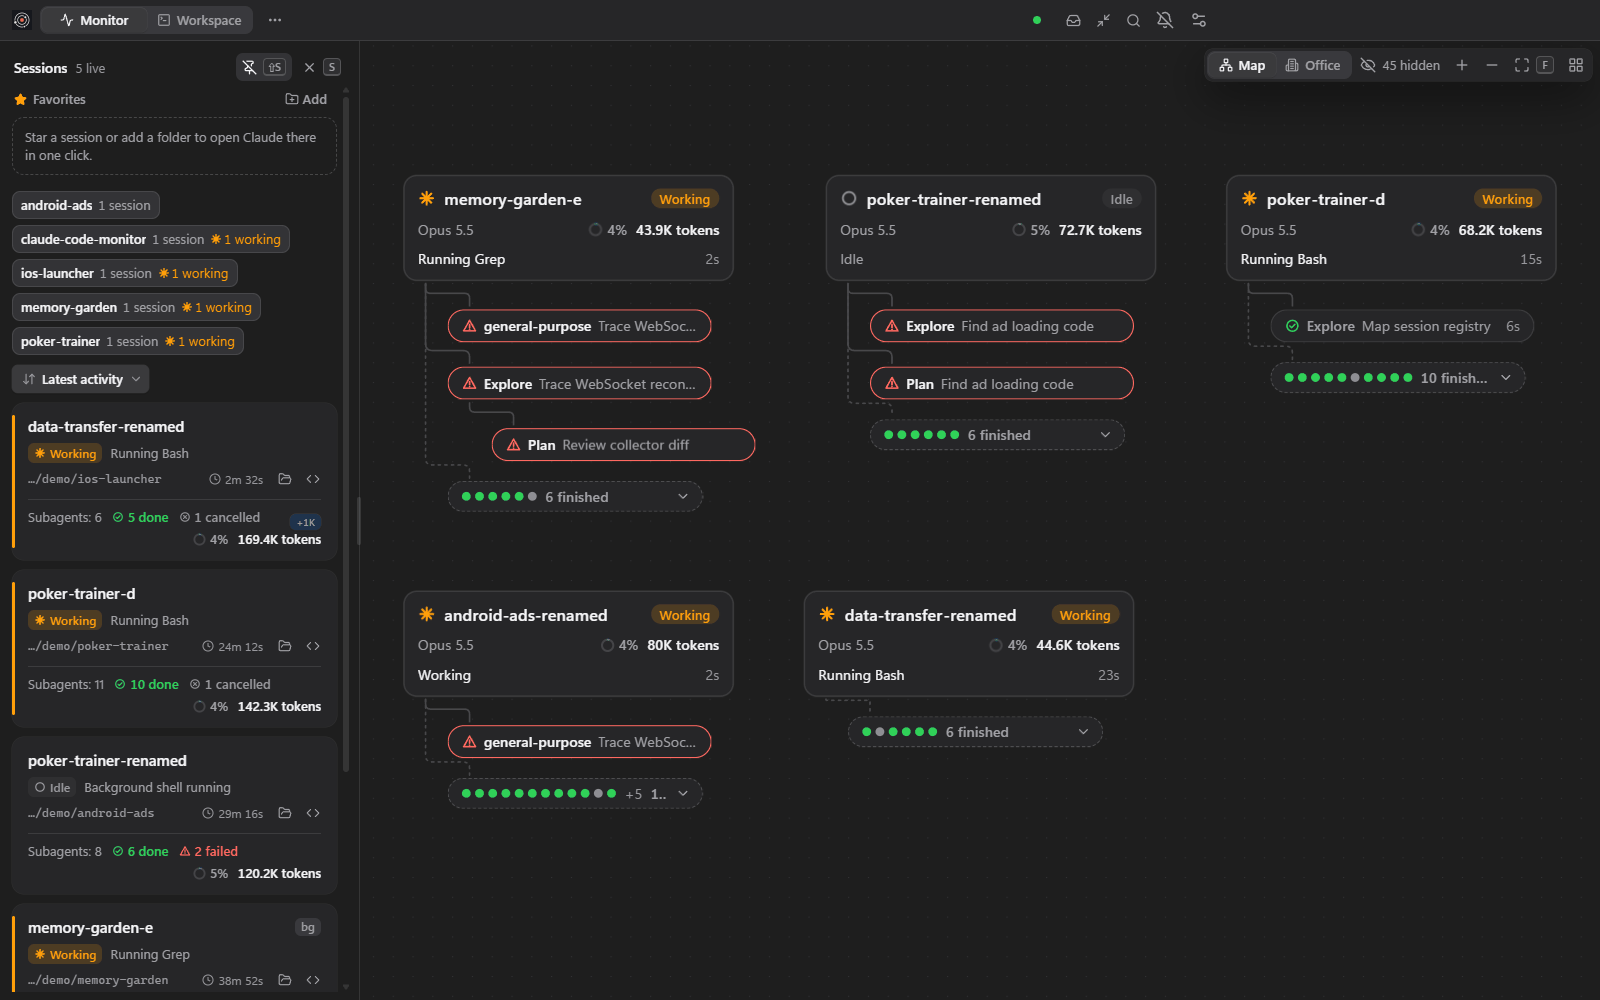
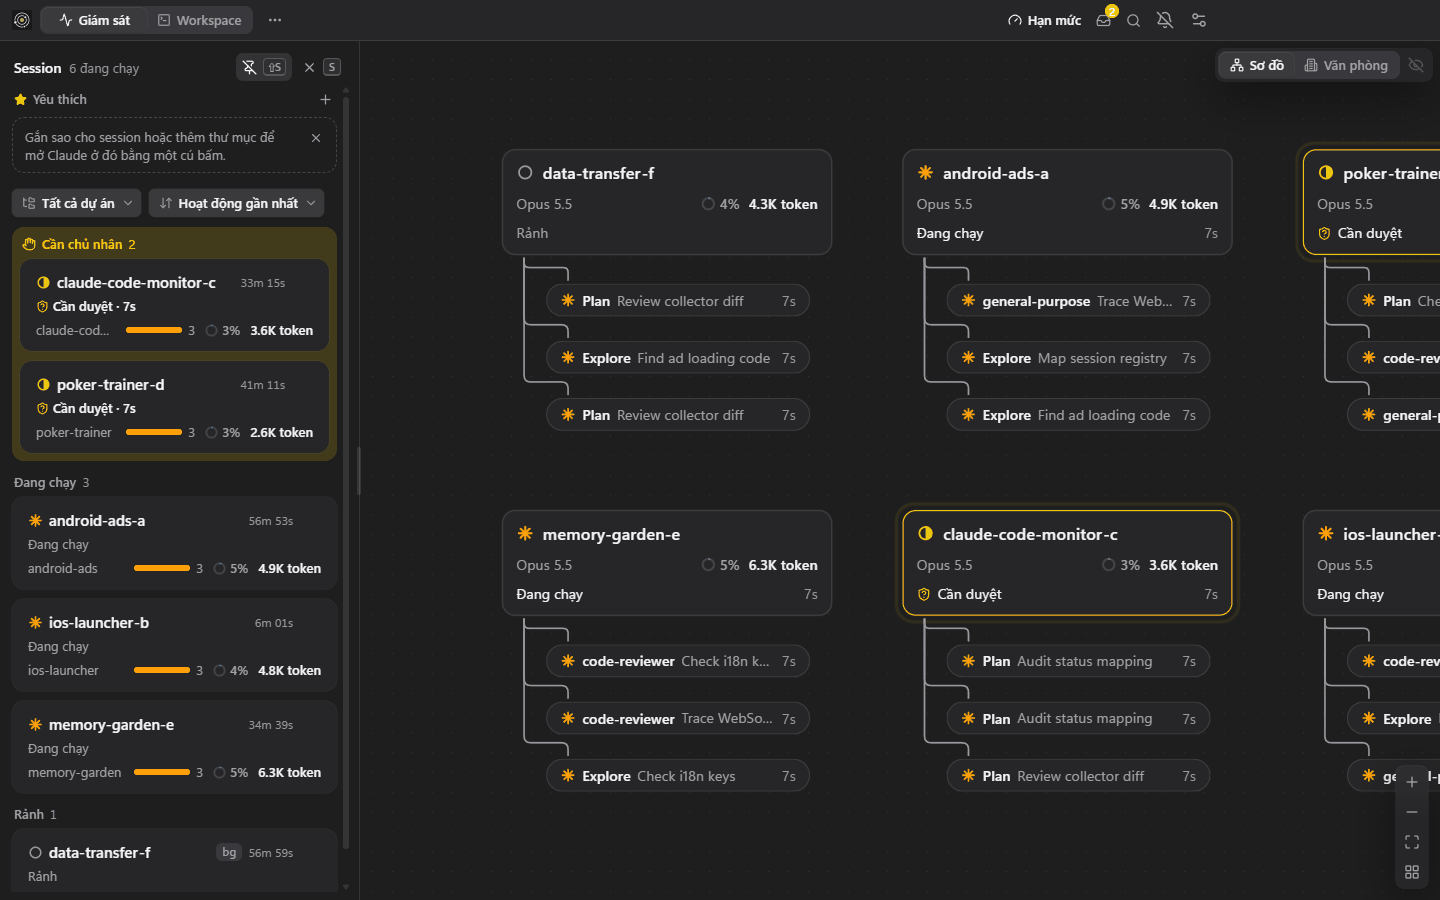
🔖 3.0.0: README, What's new, screenshots and release notes for the simpler UI

diff --git a/apps/web/src/lib/changelog.ts b/apps/web/src/lib/changelog.ts
@@ -18,6 +18,22 @@ export const SEEN_KEY = 'ccm.whatsNew.seen'
 // Summaries of `git log <prev tag>..<tag>` and the matching .planning plans; newest first.
 export const CHANGELOG: Release[] = [
   {
+    version: '3.0.0',
+    date: '2026-11-03',
+    items: [
+      { en: 'Settings is a window: ten pages, a search box and one table of events by channel', vi: 'Cài đặt là một cửa sổ: mười trang, ô tìm và một bảng sự kiện theo kênh báo' },
+      { en: 'Monitor: sessions grouped by need, three-line cards, ⋯ menu for the extra actions', vi: 'Monitor: session chia theo việc cần làm, thẻ ba dòng, thao tác phụ trong menu ⋯' },
+      { en: 'Agent Map keeps colour only on nodes waiting for you', vi: 'Agent Map chỉ tô màu node đang chờ bạn' },
+      { en: 'Workspace rail: one line per session, agents first, filter box, Open project icon', vi: 'Thanh bên Workspace: mỗi phiên một dòng, agent lên đầu, ô lọc, nút mở dự án dạng icon' },
+      { en: 'Pane headers are quieter; a lone pane lends its header to the tab bar', vi: 'Header pane gọn hơn; pane đứng một mình đưa thông tin lên thanh tab' },
+      { en: 'Workspace tab bar has a single ⋯ button; one-pane projects take one rail row', vi: 'Thanh tab Workspace chỉ còn một nút ⋯; dự án một pane chiếm một dòng ở thanh bên' },
+      { en: 'Top bar: limits, keep-awake, disk, resources and connection in one Limits button', vi: 'Thanh trên: hạn mức, giữ máy thức, ổ đĩa, tài nguyên và kết nối trong một nút Hạn mức' },
+      { en: 'Limits shows the lowest percent left; Dim, Shortcuts and Guide moved into the ⋯ menu', vi: 'Hạn mức hiện % còn lại thấp nhất; Dim, Phím tắt và Hướng dẫn chuyển vào menu ⋯' },
+      { en: 'Cleaner History, Usage, Devices, Extensions and Git branches toolbar', vi: 'Gọn lại Lịch sử, Thống kê, Thiết bị, Tiện ích và thanh nhánh Git Log' },
+      { en: 'Status labels are fully Vietnamese in the Vietnamese UI', vi: 'Nhãn trạng thái hoàn toàn bằng tiếng Việt khi dùng giao diện tiếng Việt' },
+    ],
+  },
+  {
     version: '2.6.1',
     date: '2026-11-02',
     items: [

diff --git a/.planning/RELEASE-3.0.0.md b/.planning/RELEASE-3.0.0.md
@@ -1,0 +1,52 @@
+<!-- 3.0.0 (v79 UI simplify), release 2026-11-03. -->
+# English
+
+## Settings
+- Settings is a window with a sidebar of ten pages and a search box that jumps to any setting.
+- One table shows which events notify you by system alert or by notification.
+- Rarely needed hints moved into ⓘ tooltips; the Notifications page is much shorter.
+
+## Monitor
+- The Session column groups sessions by need: Needs you, Running, Idle.
+- Cards shrink to three lines; extra actions live in a ⋯ menu.
+- The Agent Map keeps colour only on nodes waiting for you.
+- Status labels are fully Vietnamese in the Vietnamese UI.
+
+## Workspace
+- Rail: one line per session, projects with running agents first, a filter box and an Open project icon.
+- Pane headers are quieter: a lone pane lends its header to the tab bar, extra actions live in ⋯, tab close buttons show on hover.
+- The tab bar has a single ⋯ button; a project with one pane takes one rail row.
+
+## Top bar
+- Plan limits, keep-awake, low disk, resources and connection live in one Limits button; it shows the lowest percent left.
+- Compact, Dim, Shortcuts and Guide moved into the ⋯ menu.
+
+## Other screens
+- Cleaner History, Usage, Devices and Extensions pages.
+- Git Log branches toolbar keeps the common actions and puts the rest under ⋯.
+
+# Tiếng Việt
+
+## Cài đặt
+- Cài đặt là một cửa sổ có thanh bên mười trang và ô tìm nhảy tới đúng cài đặt.
+- Một bảng cho biết sự kiện nào báo bằng cảnh báo hệ thống hay thông báo.
+- Gợi ý ít cần chuyển vào tooltip ⓘ; trang Thông báo ngắn hơn nhiều.
+
+## Monitor
+- Cột Session chia nhóm theo việc cần làm: Cần chủ nhân, Đang chạy, Rảnh.
+- Thẻ gọn còn ba dòng; thao tác phụ nằm trong menu ⋯.
+- Agent Map chỉ tô màu node đang chờ bạn.
+- Nhãn trạng thái hoàn toàn bằng tiếng Việt khi dùng giao diện tiếng Việt.
+
+## Workspace
+- Thanh bên: mỗi phiên một dòng, dự án đang có agent lên đầu, có ô lọc và nút Mở dự án dạng icon.
+- Header pane gọn hơn: pane đứng một mình đưa thông tin lên thanh tab, thao tác phụ trong ⋯, nút đóng tab chỉ hiện khi rê chuột.
+- Thanh tab chỉ còn một nút ⋯; dự án chỉ có một pane chiếm một dòng ở thanh bên.
+
+## Thanh trên cùng
+- Hạn mức gói, giữ máy thức, ổ đĩa sắp đầy, tài nguyên và kết nối nằm trong một nút Hạn mức; nút hiện % còn lại thấp nhất.
+- Compact, Dim, Phím tắt và Hướng dẫn chuyển vào menu ⋯.
+
+## Màn khác
+- Gọn lại Lịch sử, Thống kê, Thiết bị và Tiện ích.
+- Thanh nhánh Git Log giữ thao tác hay dùng, phần còn lại nằm trong ⋯.
